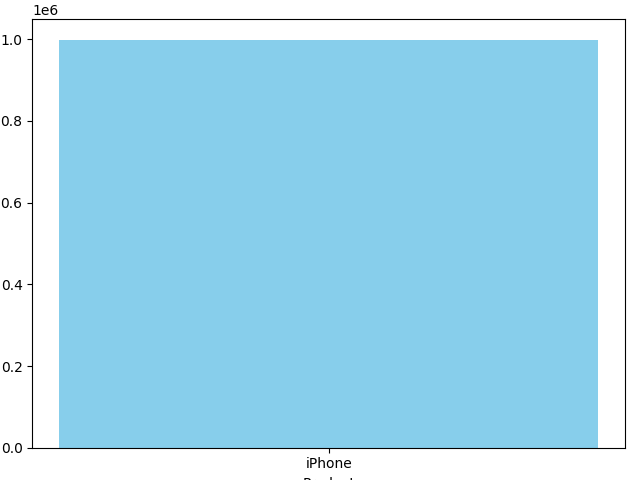
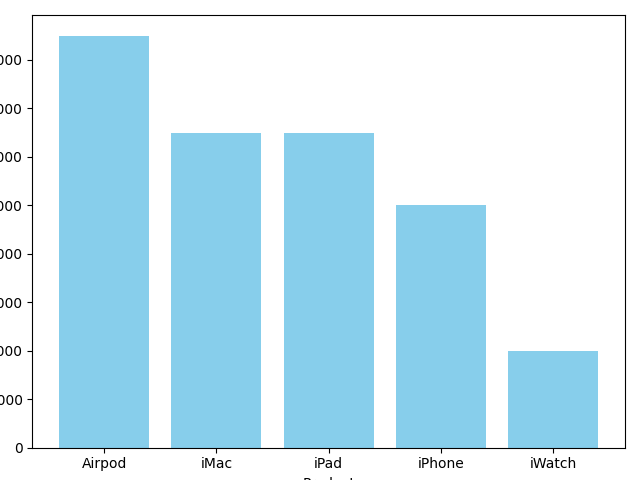
update export report file + optimize interact ps_table

diff --git a/Backend/Import_report/convertFile.py b/Backend/Import_report/convertFile.py
@@ -2,6 +2,7 @@ import traceback
 
 import pandas as pd
 import matplotlib.pyplot as plt
+from PyQt6.QtWidgets import QMessageBox, QFileDialog
 from docxtpl import DocxTemplate, InlineImage
 from matplotlib.backends.backend_template import FigureCanvas
 
@@ -11,70 +12,84 @@ from Frontend.Chart.PSGeneralChart import ProductSaleChart
 from Frontend.Chart.RevenueGeneralChart import generalChart
 
 
-# try:
-#     conn = get_connection()
-#     if not conn:
-#         print("Failed to connect DB!")
-#
-#     query = """
-# SELECT
-#     p.Product_NAME AS product_name,
-#     p.PRICE AS cost_per_unit,
-#     b.Branch_name AS branch_name,
-#     ps.SALE_DATE AS sale_date,
-#     ps.QUANTITY_SOLD AS units_sold,
-#     SUM(ps.SALE_AMOUNT) AS total_revenue
-# FROM
-#     PRODUCT_SALES ps
-# JOIN
-#     PRODUCT p ON ps.Product_ID = p.Product_ID
-# JOIN
-#     BRANCHES b ON ps.Branch_ID = b.Branch_ID
-# GROUP BY
-#     p.Product_NAME, b.Branch_name, p.PRICE, ps.QUANTITY_SOLD, ps.SALE_DATE
-# ORDER BY
-#     total_revenue DESC;
-#     """
-#     df = pd.read_sql(query,conn)
-#     print(df)
-#
-#     doc = DocxTemplate("reportTmpl.docx")
-#
-#     sales_rows = []
-#     for i,row in df.iterrows():
-#         sales_rows.append({"sNo":i,
-#                            "name": row["product_name"],
-#                            "cPu": row["cost_per_unit"],
-#                            "nUnits": row["units_sold"],
-#                            "revenue": row["total_revenue"],
-#                            "bName": row["branch_name"]
-#                            })
-#
-#     top_df = df.sort_values("total_revenue", ascending=False).head(3)
-#     top_items = [row["product_name"] for _, row in top_df.iterrows()]
-#
-#     figure,ax = plt.subplots()
-#     canvas = FigureCanvas(figure)
-#     ax.bar([x['name'] for x in sales_rows], [x['revenue'] for x in sales_rows], color='skyblue')
-#     ax.set_xlabel("Product")
-#     ax.set_ylabel("Revenue")
-#     figure.tight_layout()
-#     figure.savefig("D:/PYTHON/DACS01/Frontend/View/img/PS_chart.png")
-#
-#     context = {
-#         "reportDtStr": "29, Oct 2025",
-#         "salesTblRows": sales_rows,
-#         "topItemsRows": top_items,
-#         "trendImg": InlineImage(doc,"D:/PYTHON/DACS01/Frontend/View/img/PS_chart.png")
-#     }
-#     doc.render(context)
-#     doc.save("D:/PYTHON/DACS01/Backend/Import_report/reportTest.docx")
-#
-# except Exception as e:
-#     traceback.print_exc()
-#     print(f"Exception: {e}")
+class ExportReportFile:
+    def __init__(self, main_view):
+        self.main_view = main_view
+        self.main_view.export_report_btn.clicked.connect(self.export_file)
+    def export_file(self):
+        try:
+            conn = get_connection()
+            if not conn:
+                print("Failed to connect DB!")
 
-# class ExportFile:
+            query = """
+        SELECT
+            p.Product_NAME AS product_name,
+            p.PRICE AS cost_per_unit,
+            b.Branch_name AS branch_name,
+            ps.SALE_DATE AS sale_date,
+            ps.QUANTITY_SOLD AS units_sold,
+            SUM(ps.SALE_AMOUNT) AS total_revenue
+        FROM
+            PRODUCT_SALES ps
+        JOIN
+            PRODUCT p ON ps.Product_ID = p.Product_ID
+        JOIN
+            BRANCHES b ON ps.Branch_ID = b.Branch_ID
+        GROUP BY
+            p.Product_NAME, b.Branch_name, p.PRICE, ps.QUANTITY_SOLD, ps.SALE_DATE
+        ORDER BY
+            total_revenue DESC;
+            """
+            df = pd.read_sql(query, conn)
+            print(df)
+
+            doc = DocxTemplate("Backend/Import_report/reportTmpl.docx")
+
+            sales_rows = []
+            for i, row in df.iterrows():
+                sales_rows.append({"sNo": i,
+                                   "name": row["product_name"],
+                                   "cPu": row["cost_per_unit"],
+                                   "nUnits": row["units_sold"],
+                                   "revenue": row["total_revenue"],
+                                   "bName": row["branch_name"]
+                                   })
+
+            top_df = df.sort_values("total_revenue", ascending=False).head(3)
+            top_items = [row["product_name"] for _, row in top_df.iterrows()]
+
+            figure, ax = plt.subplots()
+            canvas = FigureCanvas(figure)
+            ax.bar([x['name'] for x in sales_rows], [x['revenue'] for x in sales_rows], color='skyblue')
+            ax.set_xlabel("Product")
+            ax.set_ylabel("Revenue")
+            figure.tight_layout()
+            figure.savefig("D:/PYTHON/DACS01/Frontend/View/img/PS_chart.png")
+
+            context = {
+                "reportDtStr": "29, Oct 2025",
+                "salesTblRows": sales_rows,
+                "topItemsRows": top_items,
+                "trendImg": InlineImage(doc, "D:/PYTHON/DACS01/Frontend/View/img/PS_chart.png")
+            }
+            doc.render(context)
+            file_path, _ = QFileDialog.getSaveFileName(
+                self.main_view,
+                "Save Report File",
+                "report.docx",
+                "Word Document (*.docx);;All Files (*)"
+            )
+
+            if file_path:
+                doc.save(file_path)
+                QMessageBox.information(self.main_view, "Success", f"Save report at:\n{file_path}")
+
+        except Exception as e:
+            traceback.print_exc()
+            print(f"Exception: {e}")
+
+# class SaveChartImg:
 #     def __init__(self):
 #         self.figure, self.ax = plt.subplots()
 #         self.save_revenue_general_chart()
@@ -103,14 +118,7 @@ from Frontend.Chart.RevenueGeneralChart import generalChart
 #             traceback.print_exc()
 #             print(f"Exception: {e}")
 
-if __name__ == '__main__':
-    chartA = PSBranchChart("A")
-    chartB = PSBranchChart("B")
-    chartC = PSBranchChart("C")
 
-    chartA.plot_chart()
-    chartB.plot_chart()
-    chartC.plot_chart()
 
 
 

diff --git a/Backend/Controller/MainController.py b/Backend/Controller/MainController.py
@@ -4,6 +4,7 @@ from Backend.Controller.BranchesController import BranchesController
 from Backend.Controller.ProductController import ProductController
 from Backend.Controller.ProductSalesController import ProductSalesController
 from Backend.Controller.RevenueController import RevenueController
+from Backend.Import_report.convertFile import ExportReportFile
 from Backend.Model.Employer import Employer
 from Frontend.View.Login import Login
 from Frontend.View.DashBoard import DashBoard
@@ -52,6 +53,7 @@ class MainController:
             self.revenue_controller = RevenueController(self.dashboard_window)
             self.productSales_controller = ProductSalesController(self.dashboard_window)
             self.EmployerAccountSettingController = EmployerAccountSettingController(self.dashboard_window)
+            self.export_report_file = ExportReportFile(self.dashboard_window)
 
             self.enterprise_controller.set_dashboard(self.dashboard_window, employer_data)
 
